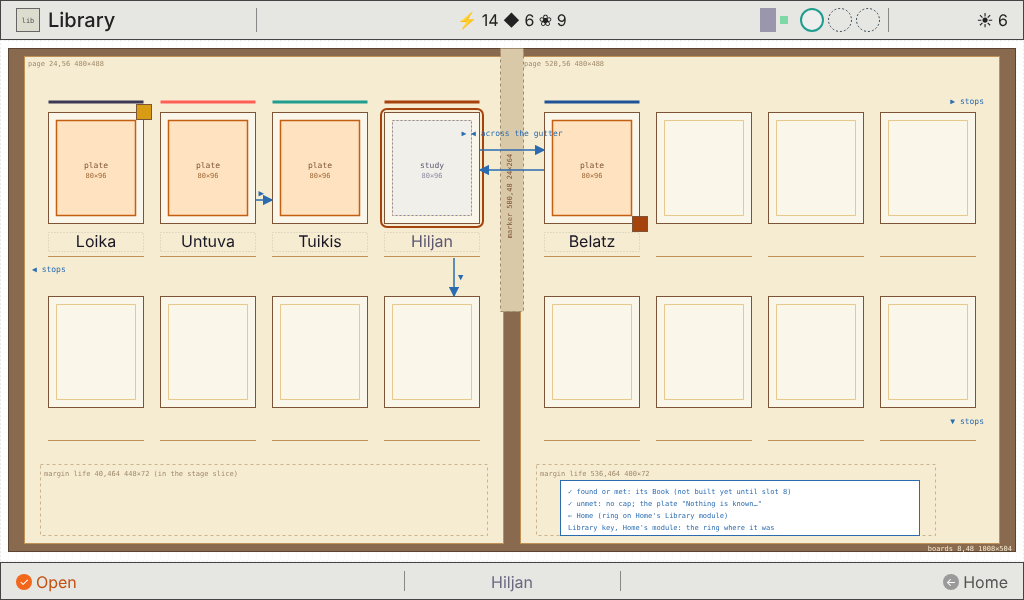
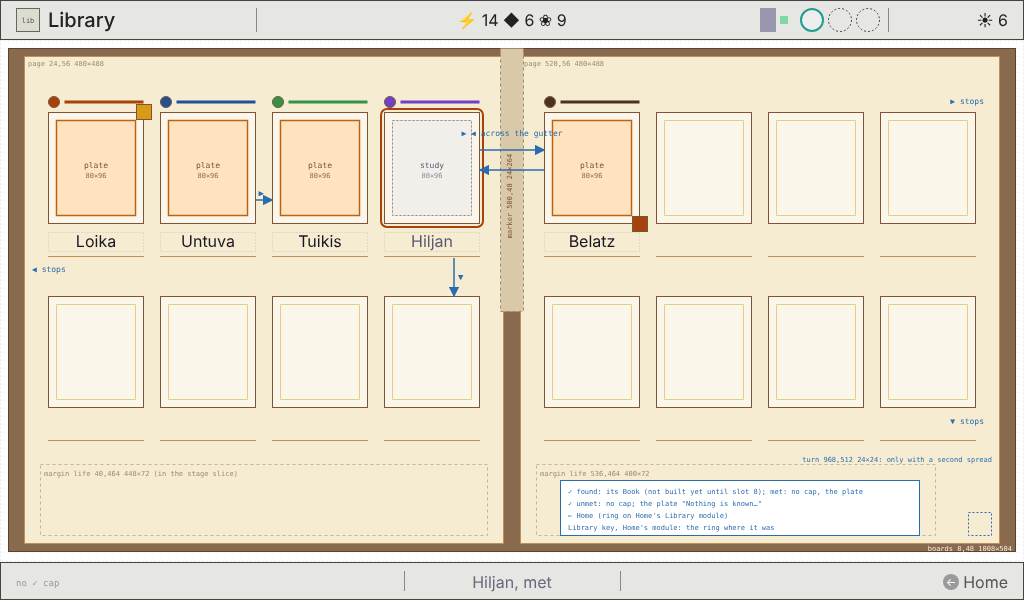
Library spread: the review fixes, and the clan colours by clan id
Architect: no events of the spread's own (the Book cut and the withdrawn
plate lift move to keys.confirm, the Book's back and entry point at
spread.keys); the intent target is frame.<SNN>; every frame is enabled and
the cap is dropped by the line; the page-turn corner is its own sprite
region, never in the stage slice; the name-fit check reads the committed
metrics vectors when no table is built.
Game designer: a met species does not open the Book (no cap, its own
plate); found and met have separate context slots; the gilt corner is any
delivered portrait of the species, released or not.
The clan rule keys on the frame's clan id through the art director's
table, now in spread.clanColours, with the clan's 12x12 roundel beside an
80 px rule. Wireframes 20 to 20b redrawn; metrics vectors regenerated.

diff --git a/design/style-guide/station-layouts.md b/design/style-guide/station-layouts.md
@@ -1997,7 +1997,7 @@ The Library's whole, its overview level ([The screen map](#the-screen-map)): Hom
 
 ### 1. Purpose
 
-The spread shows the whole collection at a glance, as plates in the field journal the device keeps. The player comes away knowing which species they have found, which they have only met, and that empty frames remain, with no cue of what waits; and, for each species they know, its clan, whether one of their mibis sat for its portrait, and whether its guide is complete. From any found or met frame, ✓ opens that species' Book. It is about the species, never one mibi ([The two levels](#the-two-levels-species-and-mibi)).
+The spread shows the whole collection at a glance, as plates in the field journal the device keeps. The player comes away knowing which species they have found, which they have only met, and that empty frames remain, with no cue of what waits; and, for each species they know, its clan, whether one of their mibis sat for a portrait, and whether its guide is complete. From a found frame, ✓ opens that species' Book; a met species has no Book to open yet (game designer). It is about the species, never one mibi ([The two levels](#the-two-levels-species-and-mibi)).
 
 ### 2. Elements
 
@@ -2007,9 +2007,9 @@ The spread shows the whole collection at a glance, as plates in the field journa
 | **Sixteen frames**, eight a page, two rows of four, one per species in its own place | Every species at once; a gap shows where a species waits |
 | **Found plate**, a painted plate tipped into the frame | Found: the only colour on the page |
 | **Met study**, a pencil study | Met on a walk, not yet found: told apart by craft, not by a word |
-| **Unmet**: the empty frame alone | Nothing to read: no silhouette, no name, no rule |
+| **Unmet**: the empty frame alone | Nothing to read: no silhouette, no name, no rule, no roundel |
 | **Name** on the caption rule, 16 px | Found in `ink`, met in `stone` (pencil grey) |
-| **Clan rule**, a 4 px inked band over a found or met frame | The clan, by its anchor colour, the same colour as the guide's panels |
+| **Clan rule** (a flat 4 px ink line) and the clan's **roundel** beside it, over a found or met frame | The clan, by the art director's colour for its id (C01 to C16), and by its roundel, so colour never carries the clan alone |
 | **Gilt corner** on a found frame | A mibi of this species sat for the Book's face |
 | **Seal** on a found frame | Every look of the species found |
 
@@ -2028,7 +2028,7 @@ The spread shows the whole collection at a glance, as plates in the field journa
 5. **The gilt corners and the seals**, small marks at the frames' corners.
 6. **The margins.**
 
-**At the edges:** the cloth marker over the gutter; the margin life under the second rows. The page-turn corner waits for a second spread (more than sixteen species), not designed for the build yet.
+**At the edges:** the cloth marker over the gutter; the margin life under the second rows; the page-turn corner at the bottom right, its own sprite, only when a second spread exists (more than sixteen species), so never in slot L.
 
 ### 4. Art direction
 
@@ -2055,14 +2055,16 @@ The volume fills the stage. Each page holds a 4 × 2 grid of frames, 96×112 on 
 | Frame columns | x 48, 160, 272, 384; 544, 656, 768, 880 | | Rows y 112 and 296 |
 | **Found plate (focal)** | frame + (8, 8), 80×96 | sprite `spread-plate-<SNN>-80x96` | In the 8 px mat; rendered or downsampled, never enlarged |
 | Met study | frame + (8, 8), 80×96 | sprite `spread-study-<SNN>-80x96` | |
-| Clan rule | frame + (0, −12), 96×4 | rect in the clan's colour | y 100 and 284; found and met only |
+| Clan roundel | frame + (0, −16), 12×12 | sprite `clan-roundel-<Cnn>-12x12` | Centred on the rule's line (y 102 and 286); found and met only |
+| Clan rule | frame + (16, −12), 80×4 | rect in the clan's colour | y 100 and 284, 4 px after the roundel; found and met only |
 | Name | frame + (0, 120), 96×20 | text, 16 px, centred | y 232 and 416, on the caption rule at y 256 and 440 (the slice's). Widest today: Untuva, 53 px |
 | Gilt corner | frame + (88, −8), 16×16 | sprite `spread-gilt-corner-16x16` | Centred on the frame's top right corner; found and portrayed |
 | Seal | frame + (88, 104), 16×16 | sprite `spread-seal-16x16` | Centred on the frame's bottom right corner; found and complete |
 | Focus | frame outset 4, radius 6: 104×120 | the ring | `rust` on paper; nothing lifts |
+| Page-turn corner | 968, 512, 24, 24 | sprite `book-corner-turn-24x24`, part of `spreadPage` | Its own region, never in the stage slice; only with a second spread |
 | Message plate | centred on x 512, bottom at y 550 | the frame's | 286×36 for "Nothing is known of this frame yet" |
 
-`spreadPage` is a composition, not a word: a `list` by `listPitch` whose items are the frame's parts above (two sprites, one rect, one text), each drawn only when its status gives it. The clan's colour is the species' first pod pigment through `cross.json` `colours.pigmentChips` (a pigment not listed is `mist`), the guide panels' tint.
+`spreadPage` is a composition, not a word: a `list` by `listPitch` whose items are the frame's parts above (three sprites, one rect, one text), each drawn only when its status gives it, plus the page-turn corner. The clan's colour comes from the frame's own clan id (`taxonomy.clan`) through the art director's table, `library.json` `spread.clanColours`; never from a pod pigment, which clans share. C01's colour is `rust`, the ring's colour on paper: reported to the art director, not changed here.
 
 ### 6. Interactions
 
@@ -2071,30 +2073,32 @@ The volume fills the stage. Each page holds a 4 × 2 grid of frames, 96×112 on 
 | Arrive | From Home's Library module or the Library key, the ring on the frame it was last on; a fresh world, on the first frame. From the Book's ←, the ring on that species |
 | ◀ ▶ | Along a row, across the gutter to the other page's same row; the outer edges stop, never a wrap |
 | ▲ ▼ | Between the page's two rows; the edges stop |
-| ✓ on a found or met frame | `✓ Open`, the context the species' name: a cut to its Book's face spread ("not built yet" until slot 8, with ← Library) |
+| ✓ on a found frame | `✓ Open`, the context the species' name: a cut to its Book's face spread ("not built yet" until slot 8, with ← Library). The plate lifting into the Book's face is withdrawn: it would enlarge an 80×96 plate |
+| ✓ on a met frame | No ✓ cap; the context names it met; a press shows the met message plate and nothing opens |
 | ✓ on an unmet frame | No ✓ cap; the context "an empty frame"; a press shows the message plate "Nothing is known of this frame yet" and nothing opens |
 | The notice | The frame's notice, as on every screen |
 | ← | Home, the ring on the Library module |
 
-**Focus as data** (`library.json` `spread.focus`): sixteen targets `frame.<SNN>`, found, met or unmet, each its frame's place with the round ring; one group `frame` whose four edges are `{ "nearestIn": "frame", "ahead": true }`, `fallback` `none`. Fourteen vectors play it with `ui/focus.mjs`, among them S04 ▶ S09 and S13 ◀ S08 across the gutter, S01 ▼ S05, and S01 ◀, S12 ▶ and S16 ▼ staying put.
+**Focus as data** (`library.json` `spread.focus`): sixteen targets `frame.<SNN>`, found, met or unmet, all enabled, each its frame's place with the round ring; ✓ on any of them reaches the intent table (target `frame.<SNN>`), which opens a found species' Book or shows a plate, and the bottom line drops the cap on met and unmet frames. One group `frame` whose four edges are `{ "nearestIn": "frame", "ahead": true }`, `fallback` `none`. Fourteen vectors play it with `ui/focus.mjs`, among them S04 ▶ S09 and S13 ◀ S08 across the gutter, S01 ▼ S05, and S01 ◀, S12 ▶ and S16 ▼ staying put.
 
-**Events** (`spread.events`): `open`, a cut to the Book's face spread; `back`, the cut from the Book to the spread with the ring on that species. The screen change itself is the host's, as everywhere.
+**Events:** none of its own (`spread.events` is empty). ✓ on a found frame is a cut to the Book (`spread.keys.confirm`); ← from the Book is a cut back with the ring on that species (`spread.keys.library`); the screen change is the host's, as everywhere.
 
-**Bound to the rules:** the frames are `spread(st, ids)` over `frameIds()`, sixteen to a spread; the status is `speciesStatus`; the gilt corner is `faceOf(st, id)` not null; the seal is `fieldGuide(st, id).complete`; the ring's frame is the Library's UI state (`ui.lib.i`, `intents/library.mjs`). Nothing is new state.
+**Bound to the rules:** the frames are `spread(st, ids)` over `frameIds()`, sixteen to a spread; the status is `speciesStatus`; the gilt corner is any delivered portrait of a mibi of the species, released or not (`book(st, id).faceChoices` not empty), whether or not it was made the face; the seal is `fieldGuide(st, id).complete`; the ring's frame is the Library's UI state (`ui.lib.i`, `intents/library.mjs`). Nothing is new state.
 
 Where the build changes what the sandbox reads today (`frame.json` `navigation.screens.library` gains its states and spec) is listed in `library.json` `spread.buildChanges`, and lands with slot 5's build.
 
 ### Words on the spread
 
-The copywriter's slots (`spread.strings`); today's words come from this section's earlier version and from `intents/library.mjs`, none new.
+The copywriter's slots (`spread.strings`); today's words come from this section's earlier version and from `intents/library.mjs`; the two met slots are stand-ins until the copywriter words them.
 
 | Slot | Rule | Today |
 | --- | --- | --- |
 | Title | One word | "Library" |
-| Action on a found or met frame | A verb phrase, four words or fewer | "Open" |
+| Action on a found frame | A verb phrase, four words or fewer | "Open" |
 | Context, found | Six words or fewer, no digits | "{species}" |
-| Context, met | Six words or fewer, no digits | "{species}" |
+| Context, met | Six words or fewer, no digits; tells met from found in words | "{species}, met" (stand-in) |
 | Context, unmet | Six words or fewer, no digits | "an empty frame" |
+| Plate on a met frame | One sentence, at most 640 px | "Not found yet, only met" (stand-in) |
 | Plate on an unmet frame | One sentence | "Nothing is known of this frame yet" |
 | Way back | One word | "Home" |
 
@@ -2108,12 +2112,14 @@ Placed 1:1 at these sizes, never scaled or recoloured; the art director signs th
 | `spread-plate-<SNN>-80x96` | 80×96 | Sixteen: the found plate, the species' type tipped in | The species' placeholder render, downsampled; the accepted Pip for S01 |
 | `spread-study-<SNN>-80x96` | 80×96 | Sixteen: the met pencil study | The index pass in `stone` line on `paper` |
 | `spread-gilt-corner-16x16` | 16×16 | The portrayed species' gilt corner | A `gold` L, 4 px |
+| `clan-roundel-<Cnn>-12x12` | 12×12 | Sixteen: the clan's roundel beside its rule, in the clan's colour | A disc in the clan's colour, edged `bark` |
 | `spread-seal-16x16` | 16×16 | A complete guide, kin to `guide-seal-32` | A `rust` disc edged `bark` |
 
 ### Not designed yet
 
-- **A second spread** (more than sixteen species): the page-turn corner `book-corner-turn-24x24` at (968, 512, 24, 24), ▶ past the right page's last column and ◀ past the left page's first. `frameIds()` holds sixteen today.
+- **A second spread** (more than sixteen species): the page-turn corner's region is set (968, 512, 24, 24); ▶ past the right page's last column and ◀ past the left page's first are not. `frameIds()` holds sixteen today.
 - **A name wider than 96 px** at 16: none today (Untuva, 53, is the widest).
+- **The words for met**: the context and the plate are stand-ins for the copywriter.
 - **The Book's entry from a frame**: a cut until slot 8 designs it.
 - **What a newly found species shows** on the spread the first time (a mark, a moment): the save holds no unopened page, as on Home's Library module.
 
